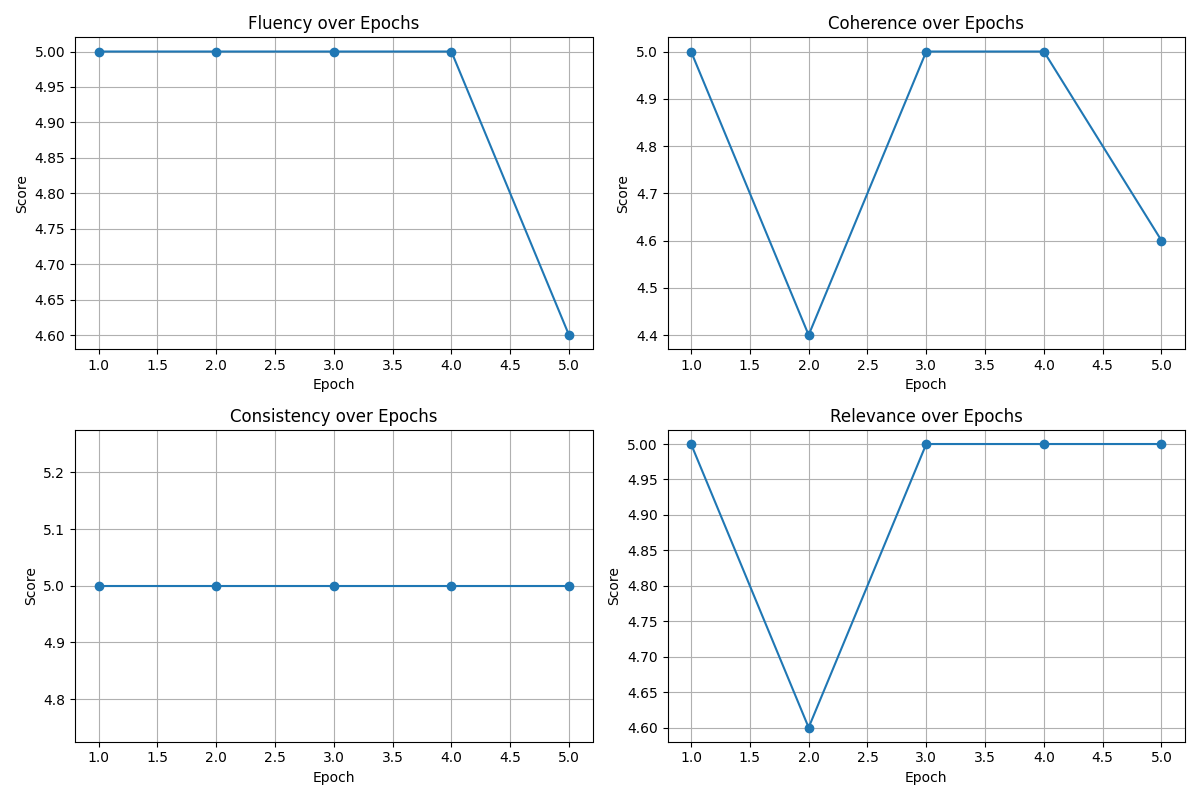
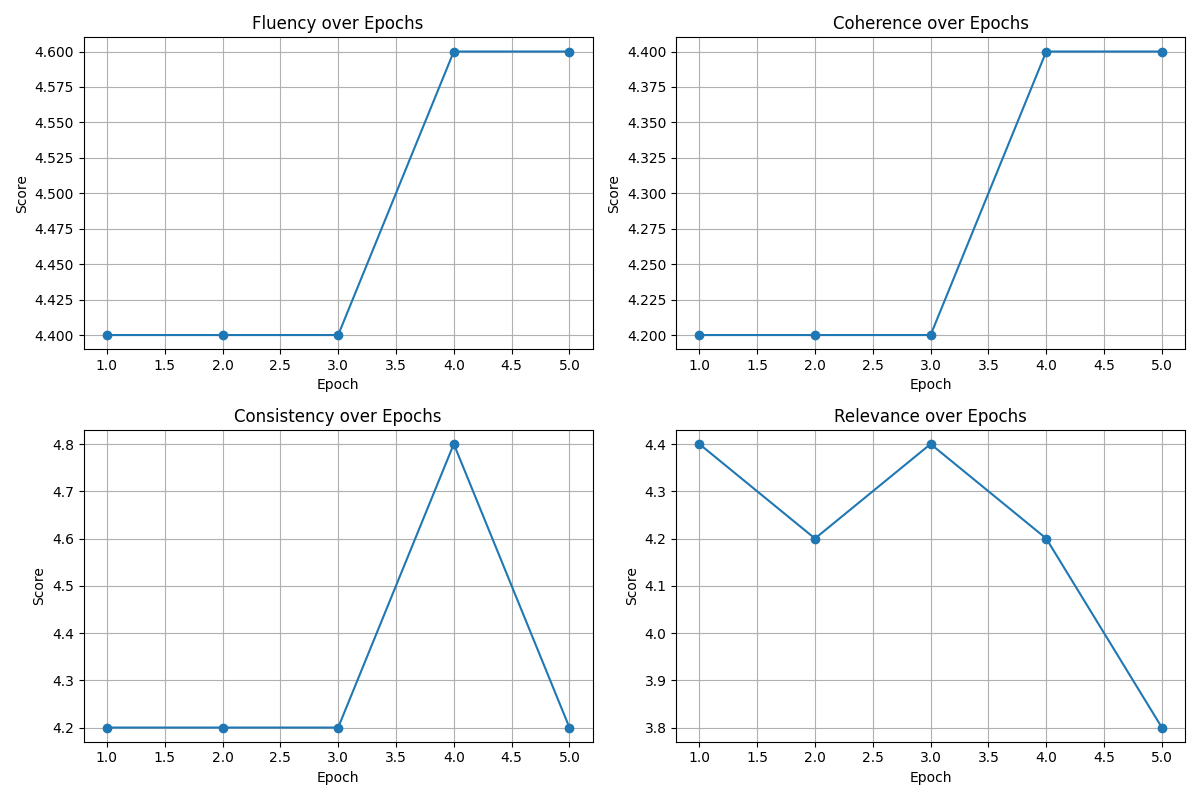
Updated Prompt for human-aligned evaluation

diff --git a/src/Eval/e_prompt.py b/src/Eval/e_prompt.py
@@ -11,7 +11,7 @@ def create_evaluator_prompt(optim_llm_response : dict, task_desc=_TASK_DESCRIPTI
     optim_llm_response_text += (
       f"Point: {idx}\n"
       f"text: {sample_point['text']}\n"
-      # f"human_summary: {sample_point['human_summary']}\n"
+      f"human_summary: {sample_point['human_summary']}\n"
       f"machine_summary: {sample_point['machine_summary']}\n\n"
     )
 
@@ -21,7 +21,9 @@ def create_evaluator_prompt(optim_llm_response : dict, task_desc=_TASK_DESCRIPTI
     Task description: 
     {_TASK_DESCRIPTION}
     
-    For each aspect, assign a score from 1 to 5 (1 = very poor, 5 = excellent).
+    For each aspect, assign a score from 1 to 5 based on
+    how aligned they are with human summaries of the same text. (1 = very poorly 
+    aligned, 5 = excellent alignment).
     
     Below are the sample points. Each point includes the original text, the human written summary (if given)
     and the machine-generated summary:
